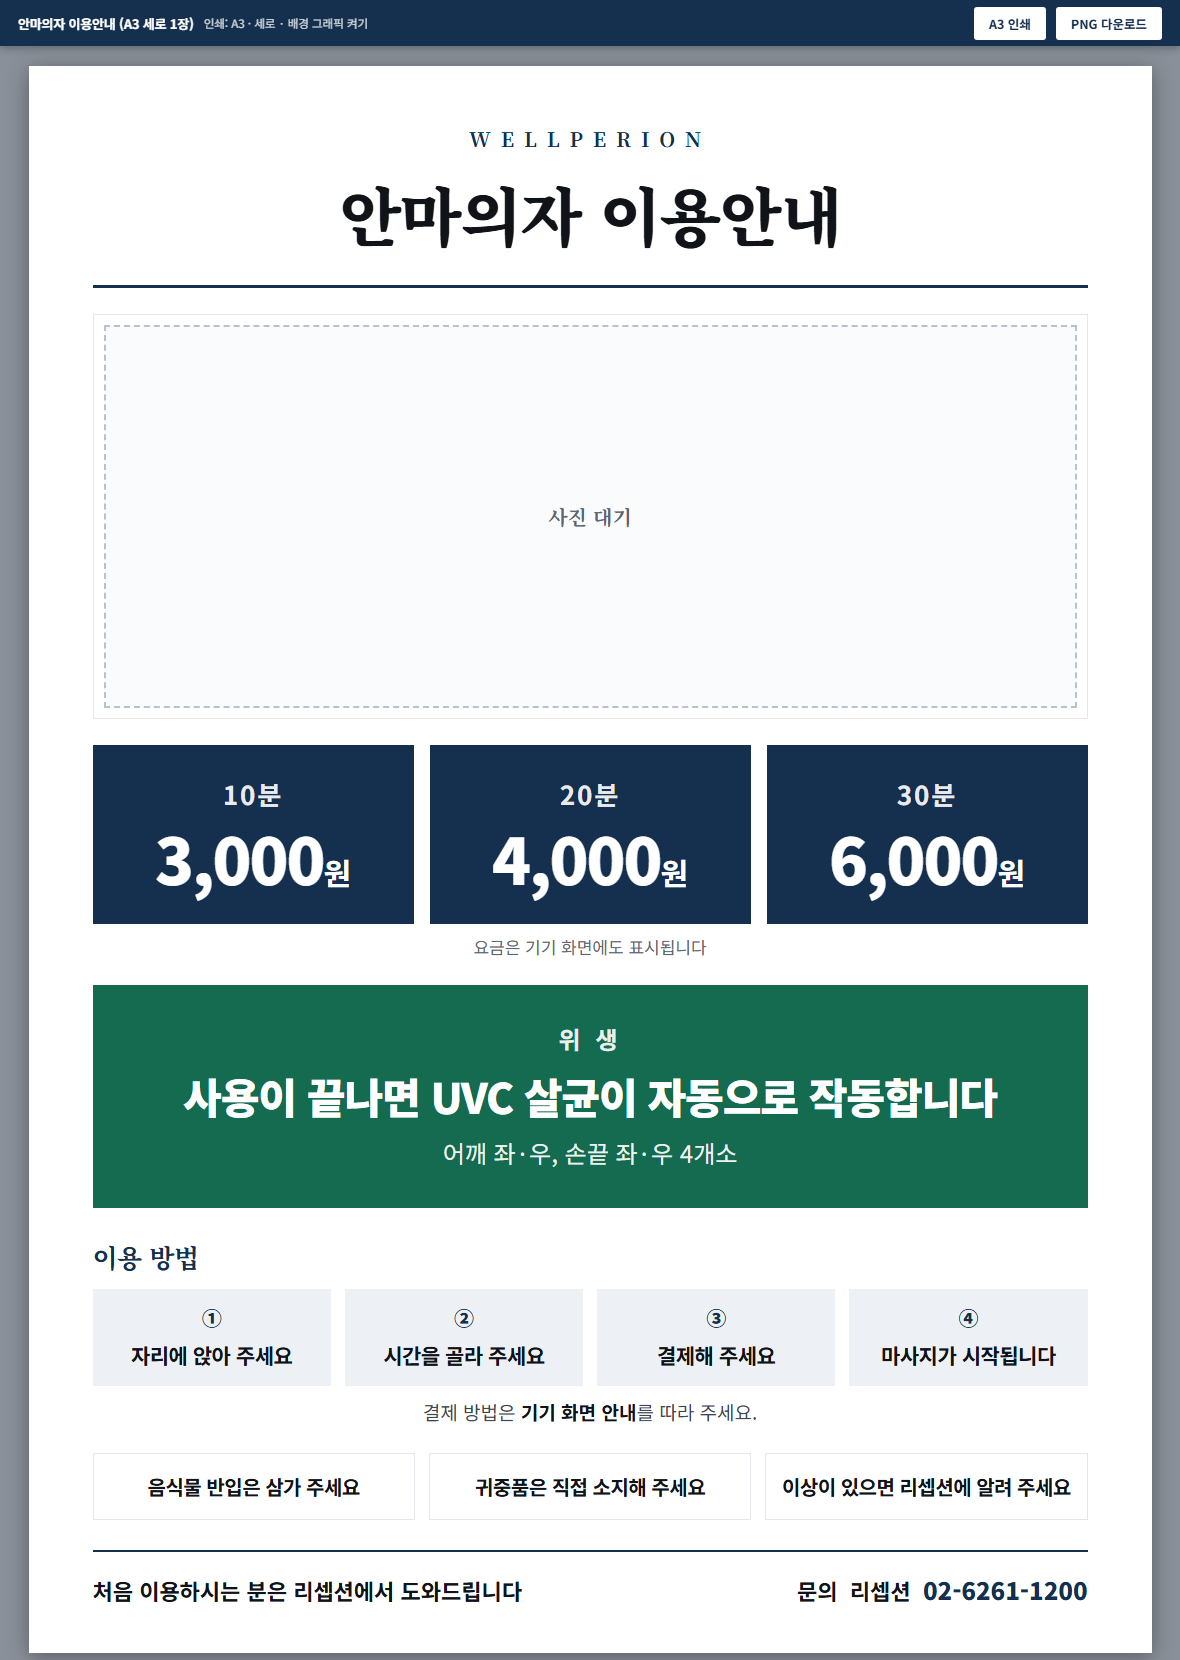
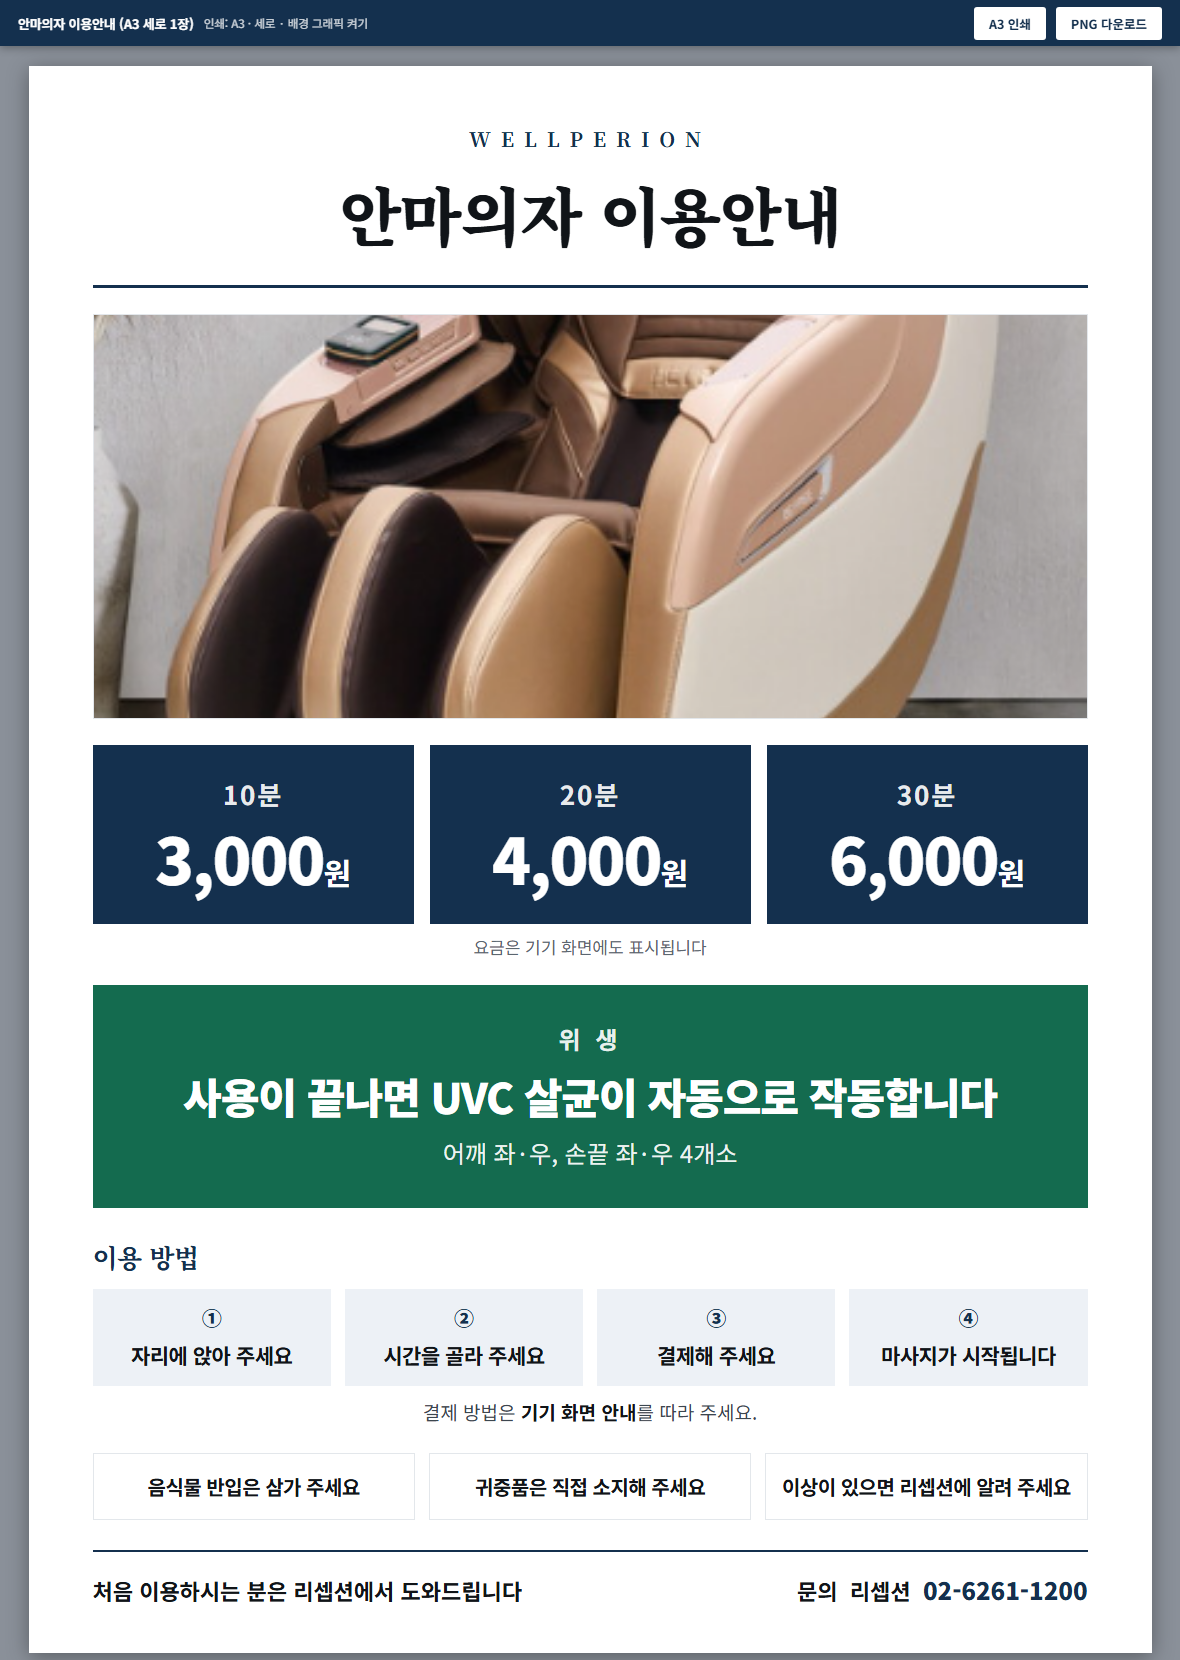
docs(ceo): 안마의자 사진 3장 편입 — 제품·남사우나 휴게실·공용공간, 가로 A3 4칸 재배치 (GM 전달 2026-08-28)

Changed region(s): [[0.061, 0.1843, 0.9458, 0.4301]]

diff --git a/3. 웰페리온 가이드/reports/260828_안마의자_도입설치_A3.html b/3. 웰페리온 가이드/reports/260828_안마의자_도입설치_A3.html
@@ -138,23 +138,31 @@
     </div>
   </div>
 
-  <!-- ③ 사진 3칸 -->
+  <!-- ③ 사진 4칸 -->
   <div class="photos">
     <figure>
-      <img src="../assets/안마의자/제품_BFV3070.jpg" alt="제품 — 비프리 BFV-3070" onerror="this.parentElement.classList.add('empty')">
+      <img src="../assets/안마의자/제품_BFV3070.png" alt="제품 — 비프리 BFV-3070" onerror="this.parentElement.classList.add('empty')">
       <div class="ph">
         <div class="t">사진 대기</div>
-        <div class="p"><code>assets/안마의자/제품_BFV3070.jpg</code><br>저장하면 자동 표시</div>
+        <div class="p"><code>assets/안마의자/제품_BFV3070.png</code><br>저장하면 자동 표시</div>
       </div>
       <figcaption>제품 — 비프리 BFV-3070</figcaption>
     </figure>
     <figure>
-      <img src="../assets/안마의자/설치공간.jpg" alt="설치 예정 공간" onerror="this.parentElement.classList.add('empty')">
+      <img src="../assets/안마의자/설치공간.jpg" alt="남자 사우나 휴게실 — 2대" onerror="this.parentElement.classList.add('empty')">
       <div class="ph">
         <div class="t">사진 대기</div>
         <div class="p"><code>assets/안마의자/설치공간.jpg</code><br>저장하면 자동 표시</div>
       </div>
-      <figcaption>설치 예정 공간</figcaption>
+      <figcaption>남자 사우나 휴게실 — 2대</figcaption>
+    </figure>
+    <figure>
+      <img src="../assets/안마의자/공용공간.jpg" alt="공용공간 — 2대" onerror="this.parentElement.classList.add('empty')">
+      <div class="ph">
+        <div class="t">사진 대기</div>
+        <div class="p"><code>assets/안마의자/공용공간.jpg</code><br>저장하면 자동 표시</div>
+      </div>
+      <figcaption>공용공간 — 2대</figcaption>
     </figure>
     <figure>
       <img src="../assets/안마의자/이용안내.jpg" alt="이용 안내 · 요금 게시(예시)" onerror="this.parentElement.classList.add('empty')">
@@ -176,7 +184,7 @@
     <tbody>
       <tr><td class="k">업체 · 제품</td><td><b>바디프렌드 (확정)</b> · 비프리(BE FREE) <b>BFV-3070</b></td></tr>
       <tr><td class="k">계약 · 입고</td><td>계약 <b>1년</b> · 입고 <b>늦어도 2026-09-08(화)</b> · 책임 <b>나우열M</b> · 실무 <b>윤병현AM</b></td></tr>
-      <tr><td class="k">위치 · 설치 대수</td><td><b>남자 사우나 휴게실 2대 + 공용공간 2대 — 총 4대</b> (GM 확정 2026-08-28)</td></tr>
+      <tr><td class="k">위치 · 설치 대수</td><td><b>남자 사우나 휴게실 2대 + 공용공간 2대 — 총 4대</b> (GM 확정 2026-08-28) — 남자 사우나 휴게실은 소파·TV가 있는 휴식 자리, 공용공간은 브랜드 배너 앞 라운지로 회원 동선에서 바로 보이는 자리다</td></tr>
       <tr><td class="k">비용</td><td>초기 투자 <span class="good">0 원</span> · 월 렌탈료 <span class="good">없음</span> — 설치·운영 비용 전액 바디프렌드 부담</td></tr>
       <tr><td class="k">이용요금</td><td><b>10분 3,000 / 20분 4,000 / 30분 6,000원</b> (GM 확정 2026-08-28)</td></tr>
       <tr><td class="k">웰페리온 몫</td><td><b class="good">매출의 30%</b> = 1회 <b>900 ~ 1,800원</b> · 배분 구조 — 원가 40% · A/S·운영 20% · 업체 10% · 웰페리온 30%</td></tr>

diff --git a/3. 웰페리온 가이드/reports/260828_안마의자_이용안내_A3세로.html b/3. 웰페리온 가이드/reports/260828_안마의자_이용안내_A3세로.html
@@ -102,7 +102,7 @@
 
   <!-- 사진 -->
   <div class="photo">
-    <img src="../assets/안마의자/제품_BFV3070.jpg" alt="안마의자" onerror="this.parentElement.classList.add('empty')">
+    <img src="../assets/안마의자/제품_BFV3070.png" alt="안마의자" onerror="this.parentElement.classList.add('empty')">
     <div class="ph"><div class="t">사진 대기</div></div>
   </div>
 
